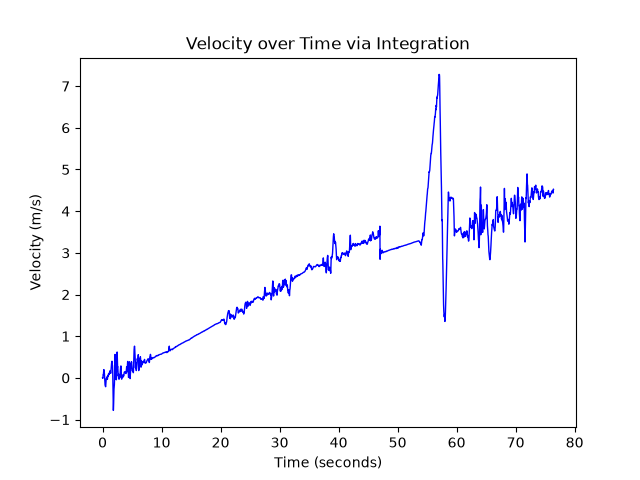
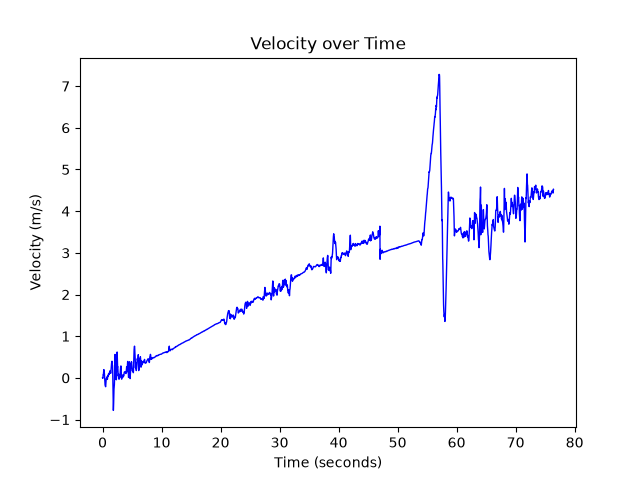
Version history

Changed region(s): [[0.2812, 0.0625, 0.75, 0.125]]

diff --git a/src/main.py b/src/main.py
@@ -9,7 +9,7 @@ RUN = 5
 
 PATH = "/Users/alexanderyang/Documents/Main Directory/Programming/physics-depth-study-velocity-derivation/"
 ACCEL = pd.read_csv(PATH + "data/Obj-" + OBJECT + "-Runs/" + str(RUN) + "/Accelerometer.csv", index_col='time')
-
+ORIENT = pd.read_csv(PATH + "data/Obj-" + OBJECT + "-Runs/" + str(RUN) + "/Orientation.csv", index_col='time')
 
 def rotate(vec: np.ndarray, quat: np.ndarray) -> np.ndarray:
     rotation = R.from_quat(quat)
@@ -49,11 +49,31 @@ def graph():
     plt.plot(time, velocity, label="Velocity", color="blue", linewidth=1)
     plt.xlabel("Time (seconds)")
     plt.ylabel("Velocity (m/s)")
-    plt.title("Velocity over Time via Integration")
+    plt.title("Velocity over Time")
     plt.savefig(PATH + "out/run-" + OBJECT + str(RUN))
     plt.show()
 
+def break_detection(x: np.ndarray):
+    diff = np.diff(x)
+    max = np.argmax(x)
+    avg_dev = np.mean(diff[(max - 150):max])
+    for i in range(max, -1, -5):
+        loc_avg_dev = np.mean(diff[(max - i - 10):(max - i)])
+        if loc_avg_dev < avg_dev - 0.05:
+            # break
+        else:
+            avg_dev = loc_avg_dev
+
+
+
+
+
+
+
+
+
 if __name__ == '__main__':
+    '''
     for i in ['A', 'B']:
         OBJECT = i
         for j in [1, 2, 3, 4, 5]:
@@ -61,3 +81,4 @@ if __name__ == '__main__':
             ACCEL = pd.read_csv(PATH + "data/Obj-" + OBJECT + "-Runs/" + str(RUN) + "/Accelerometer.csv", index_col='time')
             ORIENT = pd.read_csv(PATH + "data/Obj-" + OBJECT + "-Runs/" + str(RUN) + "/Orientation.csv", index_col='time')
             graph()
+    '''

diff --git a/README.md b/README.md
@@ -3,6 +3,9 @@ Integrate to find velocity after rotating acceleration vectors to align with rea
 The vertical velocity will be taken as the phone's down direction is always known, while horizontal direction
 is relative to the device's starting rotation.
 
+
+From derived velocity, motion during the descent can be identified and compared.
+
 ## References
 https://robotics.stackexchange.com/questions/18446/how-to-transform-raw-accelerometer-data-into-the-earth-fixed-frame-to-determine
 https://docs.scipy.org/doc/scipy/reference/generated/scipy.spatial.transform.Rotation.html
